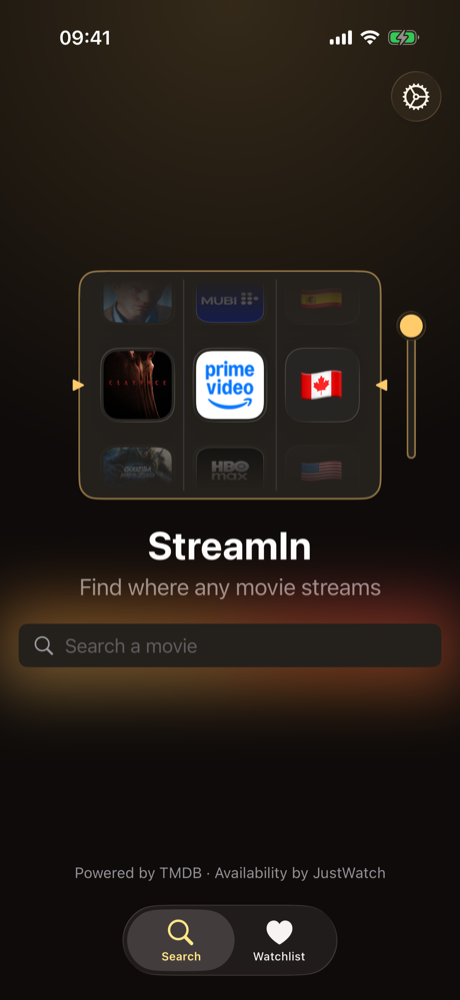
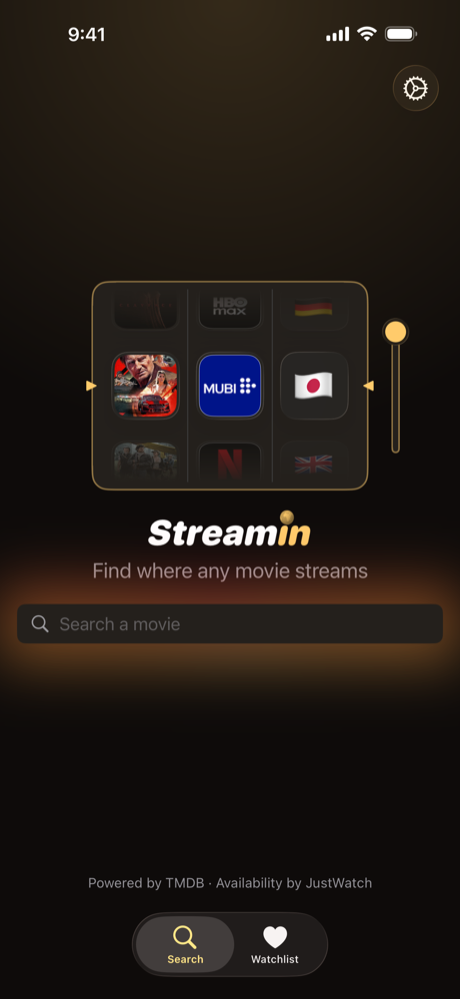
📝 docs(readme): add a demo GIF and retake the screenshots
Shots come from scripts/store-screenshots.sh --readme --demo.

diff --git a/README.md b/README.md
@@ -15,6 +15,10 @@ home, or on *your* services in another country (the VPN use case). Every
 country TMDB covers, in English and Spanish. **App Store release is the next
 milestone.**
 
+<p align="center">
+  <img src="docs/screenshots/demo.gif" width="300" alt="A 20-second demo on an iPhone: the slot machine spins, a search for Spirited Away, its page says Watch now on Netflix, the heart saves it, and it shows up in the Watchlist tab">
+</p>
+
 <table>
   <tr>
     <th width="25%">🎰 Spin or search</th>
@@ -23,10 +27,10 @@ milestone.**
     <th width="25%">📺 Your services</th>
   </tr>
   <tr>
-    <td width="25%" align="center"><img src="docs/screenshots/landing-slot-machine.png" width="200" alt="The search landing page: a slot machine whose three reels stopped on a movie poster, Prime Video and the flag of Canada, above the StreamIn title and the search bar"></td>
-    <td width="25%" align="center"><img src="docs/screenshots/search-results.png" width="200" alt="Search results for Paddington: each row shows its poster, year and where to watch it, Prime Video for the first two films, Netflix abroad behind a globe for the third, and Not streaming here for the rest"></td>
-    <td width="25%" align="center"><img src="docs/screenshots/watchlist.png" width="200" alt="The Watchlist tab: saved movies with their posters, directors and the services that carry them"></td>
-    <td width="25%" align="center"><img src="docs/screenshots/onboarding-services.png" width="200" alt="Onboarding: a globe over Pick the services you pay for, with Prime Video, Disney+ and Netflix picked and a grid of the other services available in the United Kingdom"></td>
+    <td width="25%" align="center"><img src="docs/screenshots/landing-slot-machine.png" width="200" alt="The search landing page: a slot machine whose three reels stopped on a movie poster, a streaming service and a flag, above the Streamin wordmark, its i dotted with a gold globe, and the search bar"></td>
+    <td width="25%" align="center"><img src="docs/screenshots/search-results.png" width="200" alt="Search results for Night: each row shows its poster, year and where to watch it: Netflix at home, Netflix abroad behind a globe, Disney+, or Not streaming here"></td>
+    <td width="25%" align="center"><img src="docs/screenshots/watchlist.png" width="200" alt="The Watchlist tab: Spirited Away, Whiplash and Greyhound with their posters, directors and the services that carry them, Whiplash&#39;s behind a globe"></td>
+    <td width="25%" align="center"><img src="docs/screenshots/onboarding-services.png" width="200" alt="Onboarding: the Streamin wordmark over Pick the services you pay for, with Prime Video, Disney+ and Netflix picked and a grid of the other services available in the United Kingdom"></td>
   </tr>
 </table>
 
@@ -221,7 +225,7 @@ wrong row — all fixed before the PR opened. Martín found no code bugs after
 hand-off. The [workflow log](docs/workflow-log.md) has the per-phase scorecard
 and the things that broke along the way.
 
-**By the numbers:** 50 merged PRs, 6 of them written end to end by claude[bot]
+**By the numbers:** 54 merged PRs, 6 of them written end to end by claude[bot]
 from an issue. Every commit Claude makes carries a co-author trailer, and
 Martín reviews every PR before it merges.
 
@@ -233,7 +237,7 @@ Martín reviews every PR before it merges.
 | 3 | Watchlist with SwiftData | ✅ |
 | 4 | Details redesign: one verdict first | ✅ |
 | 5 | Design and UX pass on every screen: slot machine, cinema theme, where-to-watch rows | ✅ |
-| 6 | App Store: privacy manifest, TMDB attribution, every region, icon and launch screen ✅; accessibility pass, store screenshots, TestFlight and submission next | 🔄 |
+| 6 | App Store: privacy manifest, TMDB attribution, every region, icon, launch screen and logo, store screenshots ✅; TestFlight and submission next | 🔄 |
 
 After 1.0: French, and on-device Foundation Models for natural-language search
 ("a feel-good 90s comedy") if it earns its place. Full plan in
